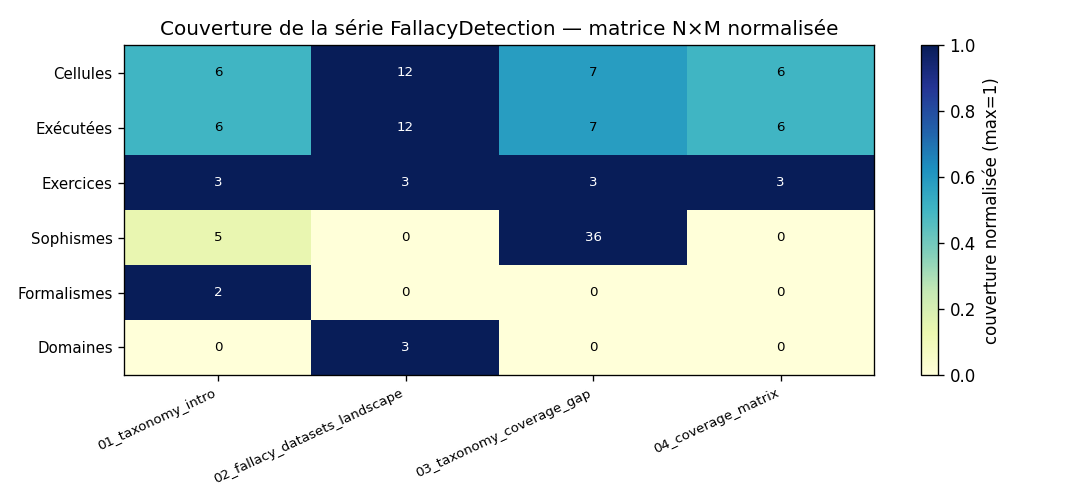
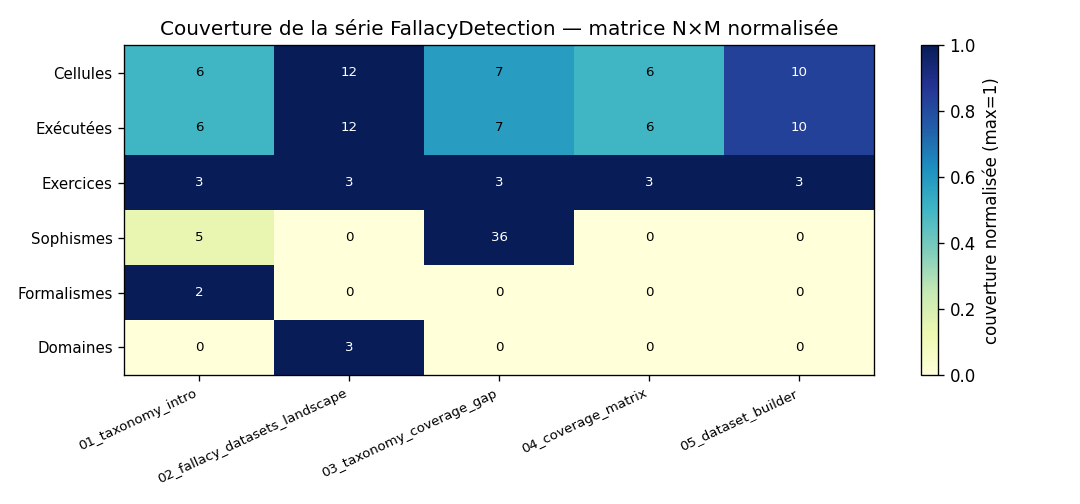
Fix(genai,#17073): audit v2.1 FallacyDetection-04 -- organe glob (05 absent de la liste durcie) + prose regroundee (re-exec)
Organe (scripts/notebook_tools/fallacy_coverage_matrix.py):
- NOTEBOOKS etait une liste codee en dur 01-04 : 05_dataset_builder absent de la matrice, falsifiant la claim centrale du notebook ('lecture directe... aucune declaration a la main') -- remplacee par decouverte par glob *.ipynb (tri par nom), le parametre names reste disponible pour restreindre
- docstring: exemple mafalda_labels (variable inexistante) -> MAFALDA_L2 ; mention '01/02/03 et le 04' -> decouverte automatique

Notebook 04:
- c.2: LOGIC_13/mafalda_labels -> LOGIC_13/MAFALDA_L2 (variables reelles du 03)
- c.10: 'Exécute (1)' garbled -> 'La cellule ci-dessus' ; 'les deux autres en couvrent-elles zero' -> quatre (01/03/04/05, la matrice 5 lignes montre 4 zeros)
- c.16: carte de vacuite '(formalismes, domaines dans les 01 et 03)' -> 'formalismes hors 01, domaines hors 02' (ere 3-notebooks depassee)
- Re-exec papermill (cwd = dossier serie, PNG regenere au bon chemin): 6/6 exec contigus, 0 erreur, matrice 5 lignes (05: 10 cellules, 3 exos), Serie 41/41/15

See #19451 (partition de #17073)

diff --git a/scripts/notebook_tools/fallacy_coverage_matrix.py b/scripts/notebook_tools/fallacy_coverage_matrix.py
@@ -1,15 +1,15 @@
 """Matrice de couverture cross-notebooks de la série FallacyDetection (#14110).
 
-Lecture seule des notebooks de la série (01/02/03 et le 04 de synthèse) pour
-produire une matrice N x M de couverture : chaque notebook occupe une ligne,
-chaque axe taxonomique une colonne.
+Lecture seule des notebooks de la série (découverte automatique par glob, pas
+de registre de noms) pour produire une matrice N x M de couverture : chaque
+notebook occupe une ligne, chaque axe taxonomique une colonne.
 
 Axes mesurés (mécaniquement, rien n'est deviné) :
 
 - ``sophismes`` : nombre d'étiquettes distinctes exposées par les inventaires
   que le notebook définit lui-même. On compte les listes littérales assignées
   à une variable dont le nom contient label/taxo/logic/mafalda/walton
-  (ex. ``LOGIC_13`` -> 13 entrées, ``mafalda_labels`` -> sa longueur encodée).
+  (ex. ``LOGIC_13`` -> 13 entrées, ``MAFALDA_L2`` -> 23 entrées).
 - ``formalismes`` : nombre de cellules code qui mentionnent à la fois les
   deux pôles formel/informel (l'axe pédagogique que la série pose en 01).
 - ``domaines`` : nombre de sources externes distinctes nommées dans le
@@ -41,12 +41,9 @@ except Exception:  # pragma: no cover - import en échec -> fallback interne
 
 SERIE = "MyIA.AI.Notebooks/GenAI/FallacyDetection"
 
-NOTEBOOKS = [
-    "01_taxonomy_intro.ipynb",
-    "02_fallacy_datasets_landscape.ipynb",
-    "03_taxonomy_coverage_gap.ipynb",
-    "04_coverage_matrix.ipynb",
-]
+# Découverte automatique : la matrice liste les notebooks du dossier de la série
+# par glob (``*.ipynb``), pas par registre de noms — un registre dur dérive dès
+# qu'un notebook est ajouté ou renommé (le 05 était absent de l'ancienne liste).
 
 # Marqueurs de la convention de la série : "### Exercice N — <titre>".
 EXERCICE_HEADERS = re.compile(r"#+\s+Exercice\s+\d+", re.IGNORECASE)
@@ -84,7 +81,7 @@ def _inventory_lengths(code: str) -> List[int]:
 
     Repère ``<nom> = ["a", "b", ...]`` où le nom contient un indice
     d'inventaire (label/taxo/logic/...). Particulièrement robuste aux
-    constantes de 03 (``LOGIC_13``, ``mafalda_labels``).
+    constantes de 03 (``LOGIC_13``, ``MAFALDA_L2``).
     """
     lengths: List[int] = []
     for match in re.finditer(r'^(\w+)\s*=\s*\[(.*?)\]', code, re.MULTILINE | re.DOTALL):
@@ -166,14 +163,17 @@ def _row(notebook_path: Path) -> Dict[str, Any]:
 
 
 def build_matrix(series_dir: Path, names: Optional[List[str]] = None) -> List[Dict[str, Any]]:
-    """Matrice N x M : une ligne par notebook de la série."""
-    rows: List[Dict[str, Any]] = []
-    for name in names or NOTEBOOKS:
-        path = series_dir / name
-        if not path.exists():
-            continue
-        rows.append(_row(path))
-    return rows
+    """Matrice N x M : une ligne par notebook de la série.
+
+    Par défaut, les notebooks sont découverts par glob ``*.ipynb`` dans
+    ``series_dir`` (triés par nom) — la liste ``names`` reste disponible
+    pour restreindre explicitement la mesure.
+    """
+    if names is None:
+        paths = sorted(series_dir.glob("*.ipynb"))
+    else:
+        paths = [series_dir / n for n in names]
+    return [_row(p) for p in paths if p.exists()]
 
 
 def markdown_table(rows: List[Dict[str, Any]]) -> str:
